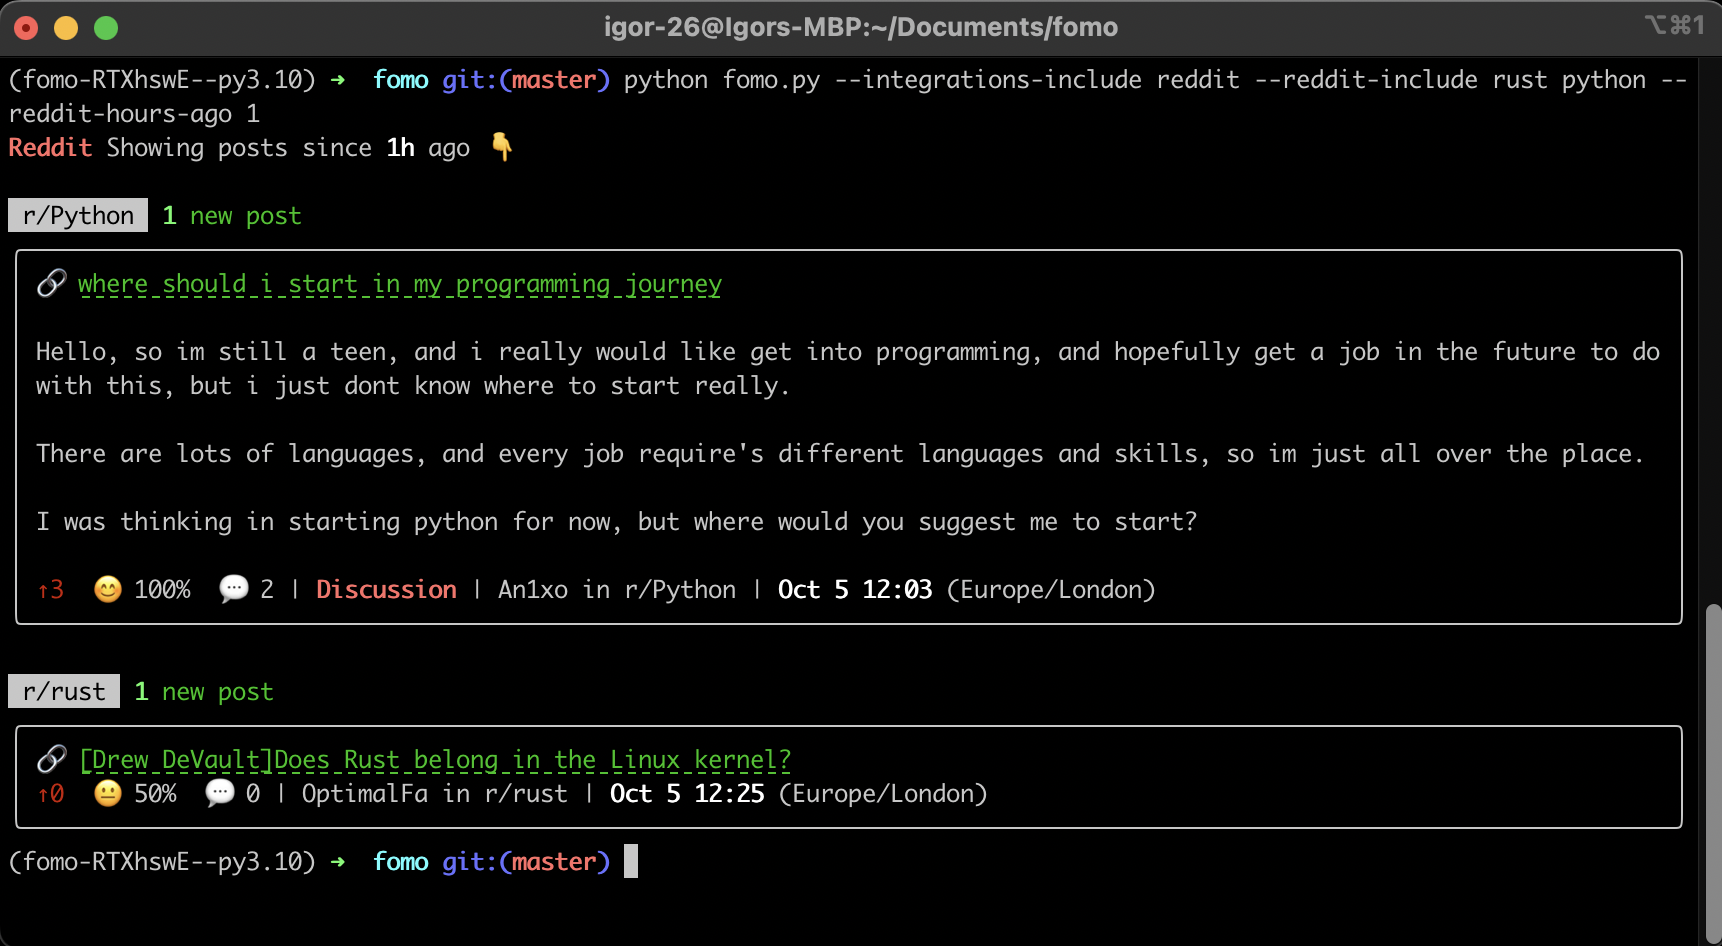
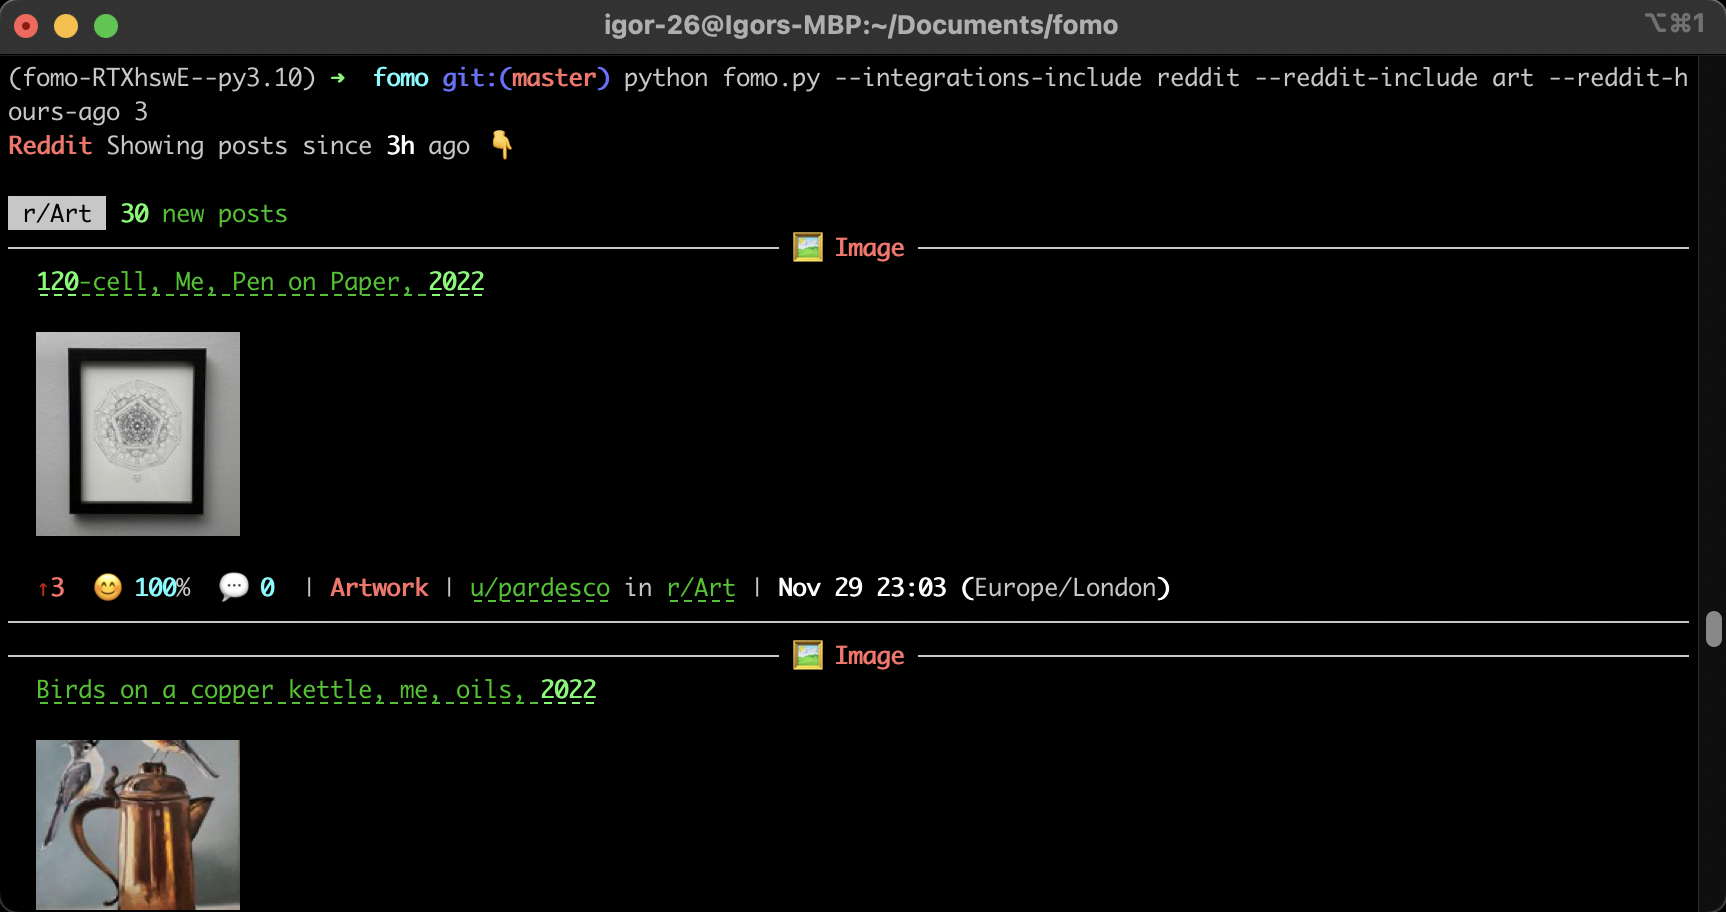
update reddit usage

diff --git a/README.md b/README.md
@@ -4,7 +4,7 @@
 </p>
 
 **FOMO** is a CLI tool that helps you stay up to date with your social media.
-<br>No ads, no suggested content, only the content you are subscribed to. 
+<br>No ads, no suggested content, only the content you are subscribed to.
 
 ## Getting Started
 
@@ -125,7 +125,7 @@ List of subreddits to exclude.
 
 List posts from `r/rust` and `r/python` created in the last hour.
 ```python
-python fomo.py --integrations-include reddit --reddit-include rust python --reddit-hours-ago 1
+python fomo.py --integrations-include reddit --reddit-include art --reddit-hours-ago 3
  ```
 <p align="center">
   <img src="assets/usage_reddit.png"/>
